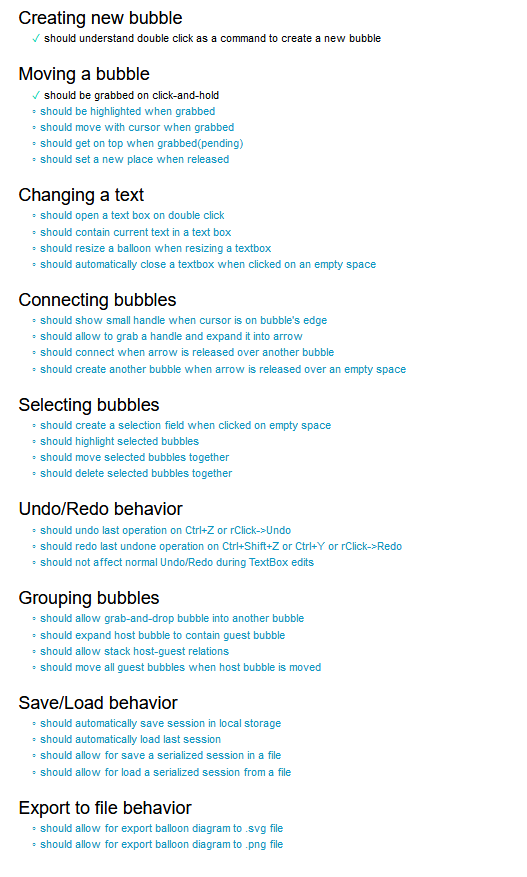
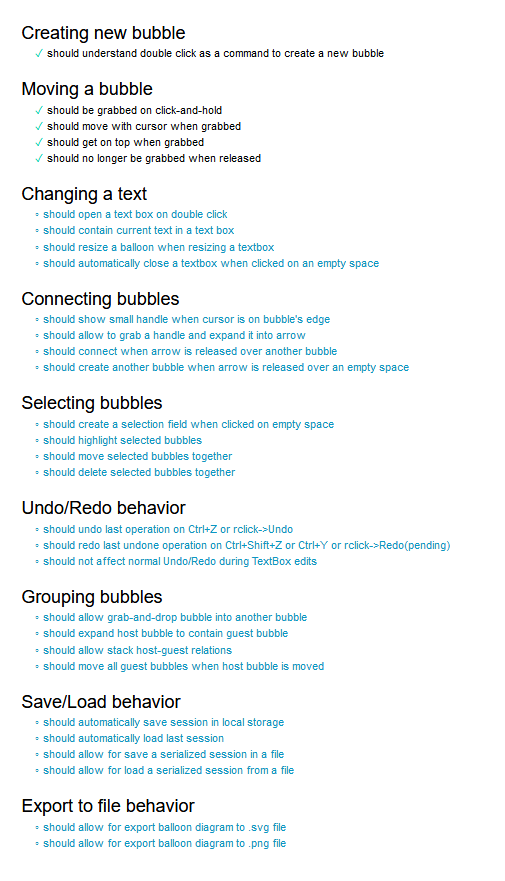
Added set on top and release tests
SetOnTop needs to be rewritten, I used a temporary solution.

Changed region(s): [[0.0297, 0.2155, 0.8911, 0.9852], [0.0297, 0.0, 0.7426, 0.1847]]

diff --git a/test.js b/test.js
@@ -1,5 +1,5 @@
 Mouse = {
-    RunEvent: function (name, x, y) {
+    runEvent: function (name, x, y) {
         $('body')[0].dispatchEvent(
             new MouseEvent(name,
                 {
@@ -10,27 +10,21 @@
         );
     },
 
-    DoubleClick: function (x, y) {
-        this.RunEvent('dblclick', x, y);
+    doubleclick: function (x, y) {
+        this.runEvent('dblclick', x, y);
     },
 
-    Click: function (x, y) {
-        this.RunEvent('mousedown', x, y);
+    click: function (x, y) {
+        this.runEvent('mousedown', x, y);
     },
 
-    Move: function (x, y) {
-        this.RunEvent('mousemove', x, y);
+    move: function (x, y) {
+        this.runEvent('mousemove', x, y);
+    },
+
+    release: function (x, y) {
+        this.runEvent('mouseup', x, y);
     }
-}
-
-function GetXYWH(div) {
-    var w = parseFloat(div.attr('width')),
-        h = parseFloat(div.attr('height'));
-
-    var x = parseFloat(div.attr('x')),
-        y = parseFloat(div.attr('y'));
-
-    return [x, y, w, h];
 }
 
 let expect = chai.expect;
@@ -41,7 +35,7 @@ describe('Creating new bubble',
             () => {
                 var x0 = 200, y0 = 200;
 
-                Mouse.DoubleClick(x0, y0);
+                Mouse.doubleclick(x0, y0);
 
                 var [x, y, w, h] = Balloons.getLastBalloon().rect();
 
@@ -64,23 +58,20 @@ describe('Moving a bubble',
         it('should be grabbed on click-and-hold', () => {
             var x0 = 500, y0 = 200;
 
-            Mouse.DoubleClick(x0, y0);
-            Mouse.Click(x0, y0);
+            Mouse.doubleclick(x0, y0);
+            Mouse.click(x0, y0);
 
-            var b = Balloons.getLastBalloon();
-
-            b.isGrabbed().should.equal(true);
+            Balloons.getLastBalloon().isGrabbed().should.equal(true);
+            Balloons.removeLast();
         });
-
-        it('should be highlighted when grabbed');
 
         it('should move with cursor when grabbed', () => {
             var [x0, y0] = [500, 200],
                 [dx, dy] = [200, 300];
 
-            Mouse.DoubleClick(x0, y0);
-            Mouse.Click(x0, y0);
-            Mouse.Move(dx, dy);
+            Mouse.doubleclick(x0, y0);
+            Mouse.click(x0, y0);
+            Mouse.move(dx, dy);
 
             var [x, y, w, h] = Balloons.getLastBalloon().rect();
 
@@ -99,9 +90,38 @@ describe('Moving a bubble',
             Balloons.removeLast();
         });
 
-        it('should get on top when grabbed');
+        it('should get on top when grabbed', () => {
+            var b1 = Balloons.addBalloon(100, 200);
+            var b2 = Balloons.addBalloon(300, 200);
 
-        it('should set a new place when released');
+            var x0 = b2.div.attr('x');
+
+            Mouse.click(100, 200);
+            Mouse.move(300, 200);
+            Mouse.release(300, 200);
+            Mouse.click(300, 200);
+            Mouse.move(500, 200);
+            Mouse.release(500, 200);
+
+            var x1 = b2.div.attr('x');
+
+            x0.should.equal(x1);
+
+            Balloons.removeLast();
+            Balloons.removeLast();
+        });
+
+        it('should no longer be grabbed when released', ()=>{
+            var b1 = Balloons.addBalloon(100, 200);
+            Mouse.click(100, 200);
+            Mouse.move(200, 200);
+            var x0 = b1.div.attr('x');
+            Mouse.release(200, 200);
+            Mouse.move(400, 200);
+            var x1 = b1.div.attr('x');
+            x0.should.equal(x1);
+            b1.isGrabbed().should.equal(false);
+        });
     });
 
 describe('Changing a text',
@@ -139,9 +159,9 @@ describe('Selecting bubbles',
 
 describe('Undo/Redo behavior',
     () => {
-        it('should undo last operation on Ctrl+Z or rClick->Undo');
+        it('should undo last operation on Ctrl+Z or rclick->Undo');
 
-        it('should redo last undone operation on Ctrl+Shift+Z or Ctrl+Y or rClick->Redo');
+        it('should redo last undone operation on Ctrl+Shift+Z or Ctrl+Y or rclick->Redo');
 
         it('should not affect normal Undo/Redo during TextBox edits');
     });

diff --git a/index.html b/index.html
@@ -11,9 +11,46 @@
     <link rel="stylesheet" href="style.css" />
 </head>
 <body>
-    <svg id="body" width="100%" height="100%"
+
+<!--<svg xmlns="http://www.w3.org/2000/svg">
+    <rect x="0"  width="100" height="100" style="fill: red;    z-index: -1;"/>
+    <rect x="40" width="100" height="100" style="fill: lime;"/>
+    <rect x="80" width="100" height="100" style="fill: blue;   z-index: 1;"/>
+                                                                                                                                                              <rect x="60" width="100" height="100" style="fill: aqua;"/>
+    <rect x="20" width="100" height="100" style="fill: yellow; z-index: -1;"/>
+</svg>
+
+<svg id="body" width="100%" height="100%" viewBox="0 0 1000 1000" preserveAspectRatio="xMinYMin">
+    <desc>Created with Snap</desc><defs></defs>
+    <rect
+        x="421.98809814453125"
+        y="210.54989624023438"
+        width="200"
+        height="200"
+        rx="200"
+        ry="200"
+        id="balloon0"
+        style="stroke-width: 20; opacity: 0.8; z-index: 10;"
+        stroke="#123456"
+        fill="#ff0000"></rect>
+
+    <rect x="493.3558654785156"
+          y="284.1201171875"
+          width="200"
+          height="200"
+          rx="200"
+          ry="200"
+          id="balloon1"
+          style="stroke-width: 20; opacity: 0.8; z-index: -10;"
+          stroke="#123456"
+          fill="#ff0000"></rect>
+
+</svg>-->
+
+
+<svg id="body" width="100%" height="100%"
          viewBox="0 0 1000 1000" preserveAspectRatio="xMinYMin">
-    </svg>
-    <script src="main.js"></script>
+</svg>
+<script src="main.js"></script>
 </body>
 </html>

diff --git a/main.js b/main.js
@@ -20,7 +20,7 @@ function Balloon(x, y) {
     this.div = createBalloon(x, y);
     this.id = this.div.attr('id');
 
-    this.Move = function (x, y) {
+    this.move = function (x, y) {
         const w = this.W;
         const h = this.H;
 
@@ -42,6 +42,13 @@ function Balloon(x, y) {
 
     this.grab = function () {
         this.grabbed = true;
+        this.bringToFront();
+    }
+
+    this.bringToFront = function () {
+        //probably not the best way to accomplish that
+        this.div.remove(); 
+        s.append(this.div);
     }
 
     this.drop = function () {
@@ -49,7 +56,7 @@ function Balloon(x, y) {
     }
 
     this.rect = function () {
-        var div = this.div;
+        const div = this.div;
         var w = parseFloat(div.attr('width')),
             h = parseFloat(div.attr('height')),
             x = parseFloat(div.attr('x')),
@@ -81,7 +88,9 @@ var Balloons = {
     },
 
     addBalloon: function (x, y) {
-        this.insert(new Balloon(x, y));
+        var b = new Balloon(x, y);
+        this.insert(b);
+        return b;
     },
 
     getLastBalloon: function () {
@@ -179,6 +188,6 @@ document.body.onmousemove = (evt) => {
 
 function dragSelectedObject(x, y) {
     if (currElement != null) {
-        currElement.Move(x, y);
+        currElement.move(x, y);
     }
 }

diff --git a/README.md b/README.md
@@ -6,8 +6,8 @@ Webpage for floating diagram design system. Written completely in JS on client s
 User can...
 
 - [x] create a new bubble
+- [x] move a bubble
 - [ ] set text into a new bubble
-- [ ] move a bubble
 - [ ] write text into a bubble
 - [ ] select many bubbles
 - [ ] remove a bubble
